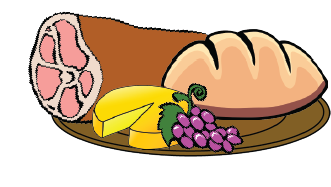
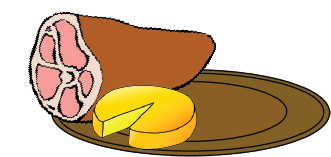
adding food animation

diff --git a/TestingWithAnts/Food.java b/TestingWithAnts/Food.java
@@ -6,7 +6,7 @@ import greenfoot.*;
  * @author (your name) 
  * @version (a version number or a date)
  */
-public class Food extends Actor
+public class Food extends AnimatedActor
 {
     public static final int FOOD_COUNT = 35;
     
@@ -19,8 +19,15 @@ public class Food extends Actor
      */
     public Food()
     {
+        super("picnic_food", ".png", 7);
         world = (setting)getWorld();
         count = FOOD_COUNT;
+        
+        // scale it the food images
+        for(GreenfootImage img : images) 
+        {
+            img.scale(img.getWidth() - 70, img.getHeight() - 70);
+        }
     }
     
     /**
@@ -29,17 +36,20 @@ public class Food extends Actor
      */
     public void act() 
     {
-        //update();
+        update();
     }
-    
+
     /**
      * Update this object
      */
     public void update()
     {
-        if (count <= 0)
+        if(count <= 0) {
+           world.removeObject(this); 
+        }
+        else
         {
-            world.removeObject(this);
+           setImage(images[(count / 7) + 1]); 
         }
     }
     
